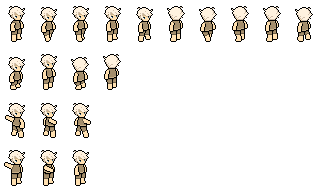
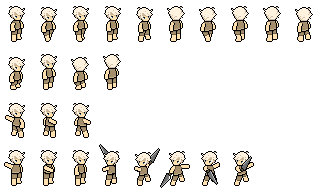
combat checkpoint

diff --git a/src/renderers/Beast.js b/src/renderers/Beast.js
@@ -39,6 +39,43 @@ class BeastRenderer {
                 animation.cy += Math.round(p * ~~animation.inty * scaling);
                 animation.cz = animation.iz + Math.round(pz * (animation.tz - animation.iz));
             }
+
+            if (beast.filters.length > 0) {
+                const completed = new Array();
+                beast.filters.forEach((filter, index) => {
+                    filter.ms += ~~!isDeltaUpdate * adjustedMs;
+                    filter.value = Math.min(filter.target * (Math.max(filter.ms + (~~isDeltaUpdate * adjustedMs), 0) / filter.duration), filter.target);
+                    if (filter.value === filter.target) {
+                        if (filter.reverse) {
+                            [filter.target, filter.initial] = [filter.initial, filter.target];
+                            filter.reverse = false;
+                            filter.ms -= filter.duration;
+                            filter.value = Math.min(filter.target * (Math.max(filter.ms + (~~isDeltaUpdate * adjustedMs), 0) / filter.duration), filter.target);
+                        } else {
+                            Events.dispatch(`${filter.type}-filter-complete`, { unit: beast, animation });
+                            completed.push(index);
+                        }
+                    }
+                });
+                completed.sort((a, b) => b - a);
+                completed.forEach(index => beast.filters.splice(index, 1));
+            }
+
+            if (beast.text.length > 0) {
+                const completed = new Array();
+                beast.text.forEach((blurb, index) => {
+                    blurb.ms += ~~!isDeltaUpdate * adjustedMs;
+                    const percentage = Math.min(Math.max(blurb.ms + (~~isDeltaUpdate * adjustedMs), 0) / blurb.duration, 1);
+                    blurb.ox = blurb.initial.x + ((blurb.target.x - blurb.initial.x) * percentage);
+                    blurb.oy = blurb.initial.y + ((blurb.target.y - blurb.initial.y) * percentage);
+
+                    if (blurb.ox === blurb.target.x && blurb.oy === blurb.target.y) {
+                        completed.push(index);
+                    }
+                });
+                completed.sort((a, b) => b - a);
+                completed.forEach(index => beast.text.splice(index, 1));
+            }
         });
     }
     
@@ -126,6 +163,27 @@ class BeastRenderer {
         EquipmentRenderer.render(ctx, beast, -1, translateX, translateY, { scaling });
         ctx.save();
         ctx.translate(translateX + (~~isMirrored * beast.tileset.sw * scaling), translateY);
+
+        if (beast.filters.length > 0) {
+            let filters = new String();
+            beast.filters.forEach(effect => filters += `${effect.type}(${effect.value}${effect.suffix}) `);
+            ctx.filter = filters;
+        }
+
+        if (beast.text.length > 0) {
+            const animation = beast.animations.current,
+                  frame = animation.config[animation.frame];
+            ctx.fillStyle = 'white';
+            ctx.strokeStyle = 'black';
+            ctx.lineWidth = 4;
+            beast.text.forEach(blurb => {
+                ctx.font = `${blurb.fontSize}px Equipment`;
+                const ox = blurb.ox + ((beast.tileset.sw / 2) - (~~isMirrored * beast.tileset.sw) - (~~animation.x + ~~frame.ox)) * scaling - (5 * (blurb.fontSize / 10)),
+                      oy = blurb.oy - (~~animation.y + ~~frame.oy) * scaling;
+                ctx.strokeText(blurb.text, ox, oy);
+                ctx.fillText(blurb.text, ox, oy);
+            });
+        }
 
         if (isMirrored)
             ctx.scale(-1, 1);

diff --git a/data/tilesets/beasts.js b/data/tilesets/beasts.js
@@ -392,6 +392,88 @@ GAME_DATA.tilesets.beasts['player'] = {
                 ]
             }
         },
+        "slash": {
+            "east": {
+                "mirrored": true,
+                "frames": [
+                    //{ "idx": 20, "ms": 150 },
+                    { "idx": 33, "ms": 1000, intx: 8, inty: -4, "event": "hit" },
+                    { "idx": 34, "ms": 1000, intx: 16, inty: -8,  },
+                    { "idx": 35, "ms": 1000, intx: 0, inty: 0 },
+                    // { "idx": 22, "ms": 200,                       "px": 0, "py": 0 },
+                    // { "idx": 21, "ms": 100 },
+                    // { "idx": 22, "ms": 200,                       "px": 0, "py": 0 },
+                    // { "idx": 21, "ms": 100 },
+                    // { "idx": 22, "ms": 200,                       "px": 0, "py": 0 },
+                    // { "idx": 21, "ms": 100 },
+                    // { "idx": 3,  "ms": 250 }
+                ]
+            },
+            "south": {
+                "frames": [
+                    { "idx": 33, "ms": 20, ox: 2, oy: -1 },
+                    { "idx": 33, "ms": 20, ox: 3, oy: -1 },
+                    { "idx": 33, "ms": 20, ox: 4, oy: -2 },
+                    { "idx": 34, "ms": 50, ox: 5, oy: -2,  },
+                    { "idx": 34, "ms": 50, ox: 6, oy: -3,  },
+                    { "idx": 34, "ms": 50, ox: 7, oy: -3,  },
+                    { "idx": 34, "ms": 300, ox: 8, oy: -4,  },
+                    { "idx": 33, "ms": 15, ox: 7, oy: -4 },
+                    { "idx": 33, "ms": 15, ox: 6, oy: -3 },
+                    { "idx": 33, "ms": 15, ox: 5, oy: -3 },
+                    { "idx": 33, "ms": 20, ox: 4, oy: -2 },
+                    { "idx": 33, "ms": 20, ox: 3, oy: -2 },
+                    { "idx": 33, "ms": 20, ox: 2, oy: -1, "event": "hit" },
+                    { "idx": 35, "ms": 50, ox: 2, oy: -1, },
+                    { "idx": 36, "ms": 50, ox: 2, oy: -1, },
+                    { "idx": 37, "ms": 500, ox: 2, oy: -1, }
+                ]
+            },
+            "west": {
+                "frames": [
+
+                ]
+            },
+            "north": {
+                "mirrored": true,
+                "frames": [
+
+                ]
+            }
+        },
+        "slash-reverse": {
+            "east": {
+                "mirrored": true,
+                "frames": [
+                ]
+            },
+            "south": {
+                "frames": [
+                    { "idx": 37, "ms": 500, ox: 2, oy: -1, },
+                    { "idx": 35, "ms": 25, ox: 1, oy: -1, "event": "hit" },
+                    { "idx": 35, "ms": 25, ox: 0, oy: 0 },
+                    { "idx": 33, "ms": 20,  },
+                    { "idx": 33, "ms": 20,  },
+                    { "idx": 33, "ms": 20,  },
+                    { "idx": 33, "ms": 15 },
+                    { "idx": 33, "ms": 15,  },
+                    { "idx": 33, "ms": 15,  },
+                    { "idx": 34, "ms": 300,   },
+                    { "idx": 34, "ms": 50,  },
+                    { "idx": 34, "ms": 50,  },
+                    { "idx": 34, "ms": 50,  },
+                ]
+            },
+            "west": {
+                "frames": [
+                ]
+            },
+            "north": {
+                "mirrored": true,
+                "frames": [
+                ]
+            }
+        },
         "dash": {
             "east": {
                 "frames": [

diff --git a/src/mediators/Actions.js b/src/mediators/Actions.js
@@ -66,6 +66,12 @@ class Actions {
                 case 'effect':
                     await this.useSkill_effectSegment(skill.sequence[i], unit, target, selection, range, entities, map, effects);
                     break;
+                case 'filter':
+                    await this.useSkill_filterSegment(skill.sequence[i], unit, selection, entities);
+                    break;
+                case 'damage':
+                    await this.useSkill_damageSegment(skill.sequence[i], unit, selection, entities);
+                    break;
                 case 'sound':
                     await this.useSkill_soundSegment(skill.sequence[i], sounds);
                     break;
@@ -139,8 +145,8 @@ class Actions {
             unit.animate(animations, true);
 
             return new Promise((resolve) => {
-                const id = Events.listen(event, (actor) => {
-                    if (actor !== unit)
+                const id = Events.listen(event, (data) => {
+                    if (data.unit !== unit)
                         return;
                     Events.remove(event, id);
                     resolve();
@@ -169,13 +175,55 @@ class Actions {
 
             return new Promise((resolve) => {
                 const id = Events.listen(event, (actor) => {
-                    if (actor !== unit)
-                        return;
                     Events.remove(event, id);
                     resolve();
                 }, true);
             });
         }
+    }
+
+    useSkill_filterSegment(segment, unit, selection, entities) {
+        const unitsToFilter = segment.unit === 'attacker' ? [unit] : entities.filter(entity => selection.has(entity.location)),
+              promises = [Promise.resolve()];
+
+        unitsToFilter.forEach(target => {
+            segment.filters.forEach(filter => {
+                target.filters.push({
+                    type: filter.type,
+                    suffix: filter.suffix || '',
+                    initial: filter.initial,
+                    value: filter.initial,
+                    target: filter.target,
+                    ms: 0,
+                    duration: filter.duration,
+                    reverse: filter.reverse || false
+                });
+            });
+
+            if (segment.await !== undefined) {
+                const complete = new Promise((resolve) => {
+                    const id = Events.listen(segment.await, (data) => {
+                        if (data.unit !== target)
+                            return;
+                        Events.remove(segment.await, id);
+                        resolve();
+                    }, true);
+                });
+                promises.push(complete);
+            }
+        });
+
+        return Promise.all(promises);
+    }
+
+    useSkill_damageSegment(segment, unit, selection, entities) {
+        const unitsToDamage = segment.unit === 'attacker' ? [unit] : entities.filter(entity => selection.has(entity.location));
+
+        unitsToDamage.forEach(target => {
+            target.doDamage(segment.amount, segment.fontSize);
+        });
+
+        return Promise.resolve();
     }
 
     useSkill_effectSegment(segment, unit, target, selection, range, entities, map, effects) {

diff --git a/data/skills.js b/data/skills.js
@@ -59,7 +59,47 @@ GAME_DATA.skills['sword'] = {
         {
             type: 'animation',
             unit: 'attacker',
-            id: 'punch',
+            id: 'slash',
+            await: 'hit'
+        },
+        {
+            type: 'animation',
+            unit: 'defender',
+            id: 'hit'
+        },
+        {
+            type: 'damage',
+            unit: 'defender',
+            amount: 22,
+            fontSize: 30
+        },
+        {
+            type: 'filter',
+            unit: 'defender',
+            filters: [
+                {
+                    type: 'brightness',
+                    initial: 100,
+                    target: 0,
+                    suffix: '%',
+                    duration: 150,
+                    reverse: true
+                },
+                {
+                    type: 'invert',
+                    initial: 0,
+                    target: 100,
+                    suffix: '%',
+                    duration: 150,
+                    reverse: true
+                }
+            ],
+            await: 'brightness-filter-complete'
+        },
+        {
+            type: 'animation',
+            unit: 'attacker',
+            id: 'slash-reverse',
             await: 'hit'
         },
         {
@@ -69,6 +109,35 @@ GAME_DATA.skills['sword'] = {
             location: 'knockback',
             id: 'hit'
         },
+        {
+            type: 'damage',
+            unit: 'defender',
+            amount: 33,
+            fontSize: 40
+        },
+        {
+            type: 'filter',
+            unit: 'defender',
+            filters: [
+                {
+                    type: 'brightness',
+                    initial: 100,
+                    target: 0,
+                    suffix: '%',
+                    duration: 200,
+                    reverse: true
+                },
+                {
+                    type: 'invert',
+                    initial: 0,
+                    target: 100,
+                    suffix: '%',
+                    duration: 200,
+                    reverse: true
+                }
+            ],
+            await: 'brightness-filter-complete'
+        }
         // {
         //     type: 'damage',
         //     actor: 'defender',

diff --git a/src/models/Beast.js b/src/models/Beast.js
@@ -80,6 +80,8 @@ class Beast {
         this.animations.modifiers.scaling = 1;
         this.animations.modifiers.filter = null;
 
+        this.text = new Array();
+        this.filters = new Array();
     }
 
     // -----------------------
@@ -158,5 +160,24 @@ class Beast {
 
     isAlive() {
         return this.stats.current.health > 0;
+    }
+
+    doDamage(amount, fontSize = 30) {
+        this.text.push({
+            text: amount,
+            fontSize: fontSize,
+            duration: 750,
+            ms: 0,
+            ox: 0,
+            oy: 0,
+            initial: {
+                x: 0,
+                y: 0
+            },
+            target: {
+                x: 0,
+                y: -20
+            }
+        });
     }
 }

diff --git a/data/scenes.js b/data/scenes.js
@@ -4,9 +4,9 @@ GAME_DATA.scenes['temple'] = {
     beasts: [
         {
             id: 'player',
-            x: 2,
-            y: 8,
-            orientation: 'east',
+            x: 3,
+            y: 12,
+            orientation: 'south',
             equipment: {
                 weapon: 'knife',
                 accessory_1: 'buckler',
@@ -20,8 +20,8 @@ GAME_DATA.scenes['temple'] = {
         },
         {
             id: 'slime',
-            x: 0,
-            y: 16,
+            x: 6,
+            y: 12,
             orientation: 'south',
             basic: 'bow'
         }
